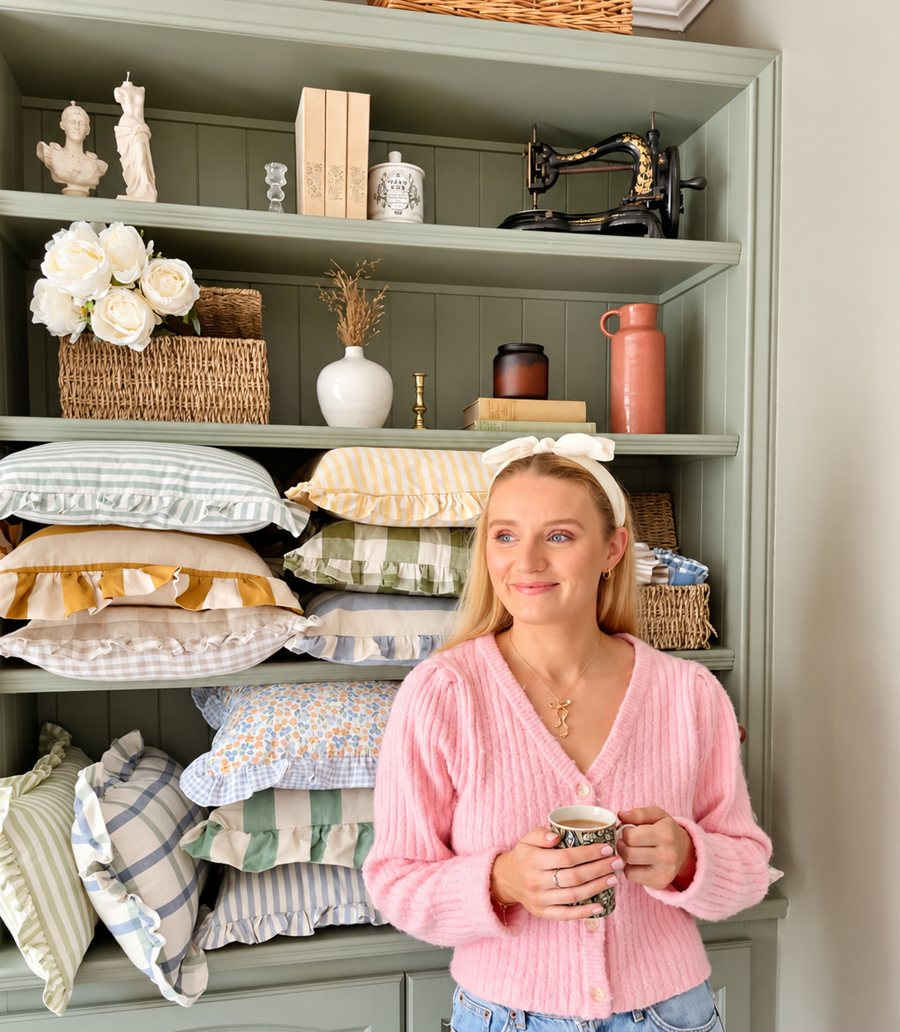
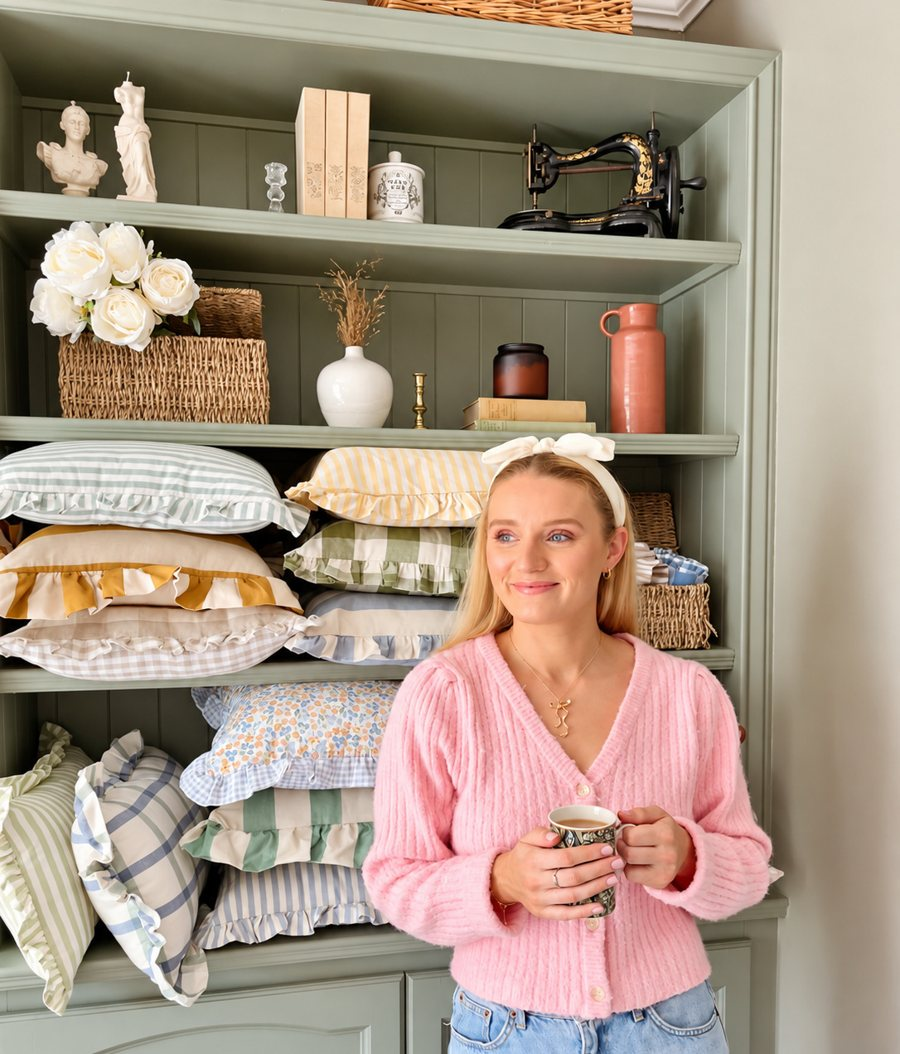
Bigger About me link, dusty pink boxes, recrop, unified brochure backgrounds
Claude-Session: https://claude.ai/code/session_01MAMsAp1BZ7bGJzGDxtn8TS

diff --git a/index.html b/index.html
@@ -34,7 +34,7 @@
   --linen:#ECE3D4;      /* brochure page ground */
   --linen-deep:#E3D8C5; /* placeholder / hover ground */
   --rose:#A35F67;       /* headings, accents */
-  --rose-soft:#F3DADD;  /* pink note boxes */
+  --rose-soft:#E8D4CD;  /* pink note boxes */
   --ink:#514C3E;        /* body text */
   --taupe:#6B6551;      /* small caps labels */
   --rule:#A39A7E;       /* box borders */
@@ -61,7 +61,8 @@ header .rule{width:min(320px,70%);height:1px;background:var(--rule);opacity:.55;
 header p.lede{font-style:italic;font-size:clamp(19px,2.4vw,22px);max-width:34ch;margin:22px auto 0;text-wrap:balance}
 
 /* section head */
-.aboutlink{display:inline-block;margin-top:14px;font-family:var(--label);font-size:11px;letter-spacing:.3em;text-transform:uppercase;color:var(--rose);text-decoration:none;border-bottom:1px solid currentColor;padding-bottom:3px}
+.aboutlink{display:inline-flex;align-items:center;gap:10px;margin-top:20px;padding:10px 26px;font-family:var(--display);font-style:italic;font-size:24px;line-height:1.1;color:var(--rose);text-decoration:none;border:1px solid var(--rose);border-radius:999px;background:var(--rose-soft);transition:background .2s,color .2s}
+.aboutlink:hover{background:var(--rose);color:var(--linen)}
 .aboutlink:focus-visible{outline:2px solid var(--rose);outline-offset:4px}
 .about-intro{display:grid;grid-template-columns:minmax(0,300px) minmax(0,1fr);gap:clamp(22px,4vw,48px);align-items:start;margin-bottom:56px}
 @media (max-width:700px){.about-intro{grid-template-columns:minmax(0,1fr)}}
@@ -73,7 +74,7 @@ header p.lede{font-style:italic;font-size:clamp(19px,2.4vw,22px);max-width:34ch;
 .pages{display:grid;grid-template-columns:repeat(2,minmax(0,1fr));gap:clamp(14px,2.6vw,28px)}
 @media (max-width:560px){.pages{grid-template-columns:minmax(0,1fr)}}
 .pages img{display:block;width:100%;max-width:100%;aspect-ratio:420/595;object-fit:cover;border-radius:3px;box-shadow:0 10px 28px rgba(60,45,35,.16)}
-.how{margin:8px auto 40px;max-width:560px;background:var(--rose-soft);border:1px solid rgba(163,95,103,.25);border-radius:6px;padding:22px clamp(18px,4vw,30px)}
+.how{margin:8px auto 40px;max-width:560px;background:var(--rose-soft);border:1px solid rgba(140,100,95,.22);border-radius:6px;padding:22px clamp(18px,4vw,30px)}
 .how h3{margin:0 0 10px;font-weight:400;font-style:italic;font-size:28px;color:var(--rose)}
 .how ol{margin:0;padding-left:1.4em;display:grid;gap:6px}
 .how li::marker{font-family:var(--label);font-size:13px;color:var(--rose)}
@@ -131,7 +132,7 @@ header p.lede{font-style:italic;font-size:clamp(19px,2.4vw,22px);max-width:34ch;
 .copy{font-family:var(--label);font-size:10px;letter-spacing:.2em;text-transform:uppercase;background:none;border:1px solid var(--rule);color:var(--taupe);padding:4px 9px;border-radius:2px;cursor:pointer}
 .copy:focus-visible{outline:2px solid var(--rose);outline-offset:2px}
 footer{text-align:center;padding-block:56px 48px}
-#footarch img,.about-photo img{aspect-ratio:1086/1245;object-position:50% 100%}
+#footarch img,.about-photo img{aspect-ratio:1086/1272;object-position:50% 100%}
 .arch.hero{margin:30px auto 0;width:min(560px,100%)}
 .arch.hero img{aspect-ratio:8/7;object-position:50% 50%}
 .arch{margin:0 auto 26px;width:min(300px,78%);padding:10px;border:1.5px solid #D9A3A3;border-radius:999px 999px 6px 6px}
@@ -183,7 +184,7 @@ footer .eyebrow .dot{opacity:.6}
     <div class="mark" aria-label="Lettered Forever"><span class="l">LETTERED</span><span class="f">forever</span></div>
     <div class="rule"></div>
     <div class="eyebrow">Hand stitched keepsakes</div>
-    <a class="aboutlink" href="#about" id="aboutlink">About me</a>
+    <a class="aboutlink" href="#about" id="aboutlink">About me <span aria-hidden="true">→</span></a>
     <figure class="arch hero" id="hero"><img src="img/hero-cushions.jpg" alt="Shelves stacked with ruffled Lettered Forever cushions" fetchpriority="high"></figure>
     <p class="lede" id="lede">Ready-to-personalise cushions, hand embroidered by Lotti</p>
   </header>
